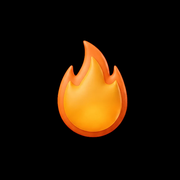
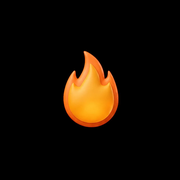
feat: atualiza logomarca oficial 1convite e novos icones oficiais 3d do app (v2.12.0)

Changed region(s): [[0.3056, 0.2222, 0.7222, 0.7778]]

diff --git a/frontend/src/App.jsx b/frontend/src/App.jsx
@@ -1126,8 +1126,8 @@ function App() {
   const [profileSavedMsg, setProfileSavedMsg] = useState('');
 
   // ── Versão do Sistema & Atualizações Automáticas em Tempo Real ────────────────
-  const CURRENT_APP_VERSION = 'v2.5.1';
-  const CURRENT_APP_BUILD = 2026112402;
+  const CURRENT_APP_VERSION = 'v2.12.0';
+  const CURRENT_APP_BUILD = 2026112415;
   const [checkingUpdate, setCheckingUpdate] = useState(false);
   const [updateStatusMsg, setUpdateStatusMsg] = useState('');
   const [showChangelog, setShowChangelog] = useState(false);
